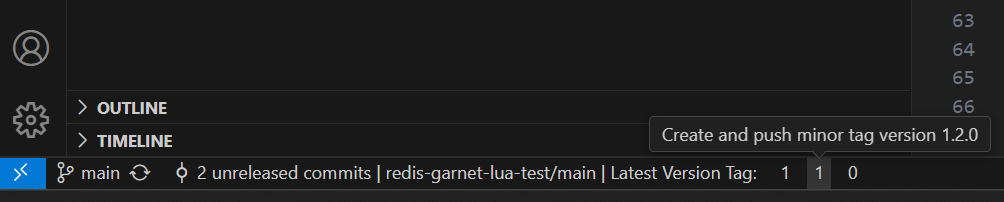
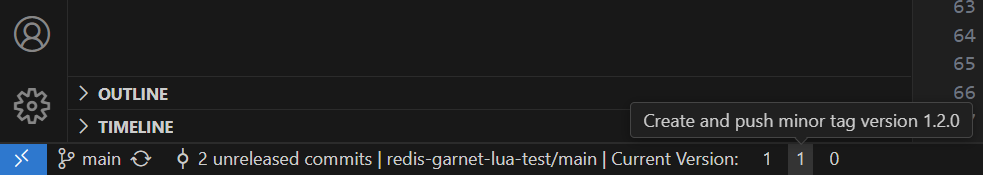
Fixed: Show unchangeable current version tag on no publishable commits

diff --git a/src/extension.ts b/src/extension.ts
@@ -292,7 +292,12 @@ async function updateStatusBar(
     const [, prefix, major, minor, patch, suffix] = tagMatch;
     const commits = await git.log({ from: latestTag, to: currentBranch });
 
-    statusBarItem.text = `$(git-commit) ${commits.total} unreleased commits | ${currentRepo}/${currentBranch} | Latest Version Tag:`;
+    let statusBarText = `$(git-commit) ${commits.total} unreleased commits | ${currentRepo}/${currentBranch} | Current Version:`;
+    if (!(currentBranch === defaultBranch && commits.total > 0)) {
+      statusBarText += ` ${latestTag}`;
+    }
+
+    statusBarItem.text = statusBarText;
     statusBarItem.tooltip = `${commits.total} unreleased commits for ${currentRepo}/${currentBranch} based on version ${latestTag}`;
     statusBarItem.show();
 

diff --git a/CHANGELOG.md b/CHANGELOG.md
@@ -1,23 +1,9 @@
 # Changelog
 
-All notable changes to this project will be documented in this file.
+## [1.0.1]
 
-## [Unreleased]
+- Fixed: Show unchangeable current version tag on no publishable commits
 
-### Added
-
--
-
-### Changed
-
--
-
-### Removed
-
--
-
-## [1.1.1] - 2024-09-20
-
-### Added
+## [1.0.0]
 
 - Initial release of Git Tag Release Tracker.
